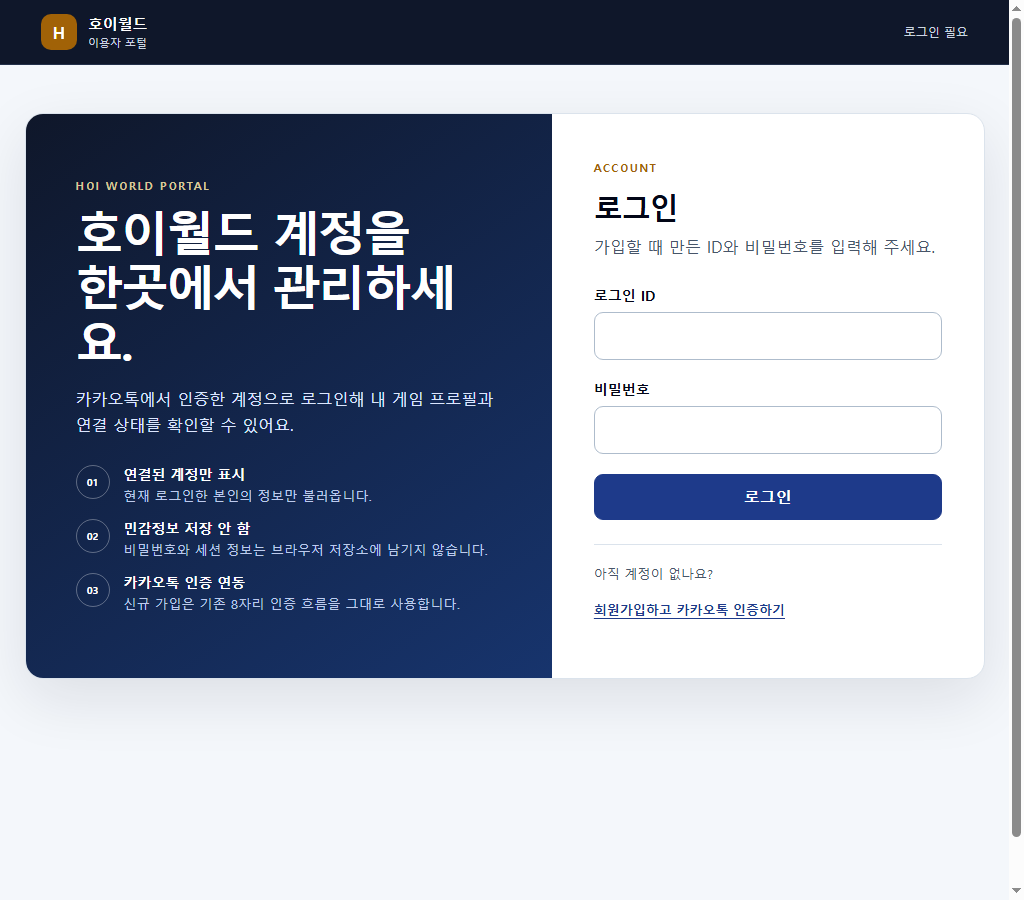
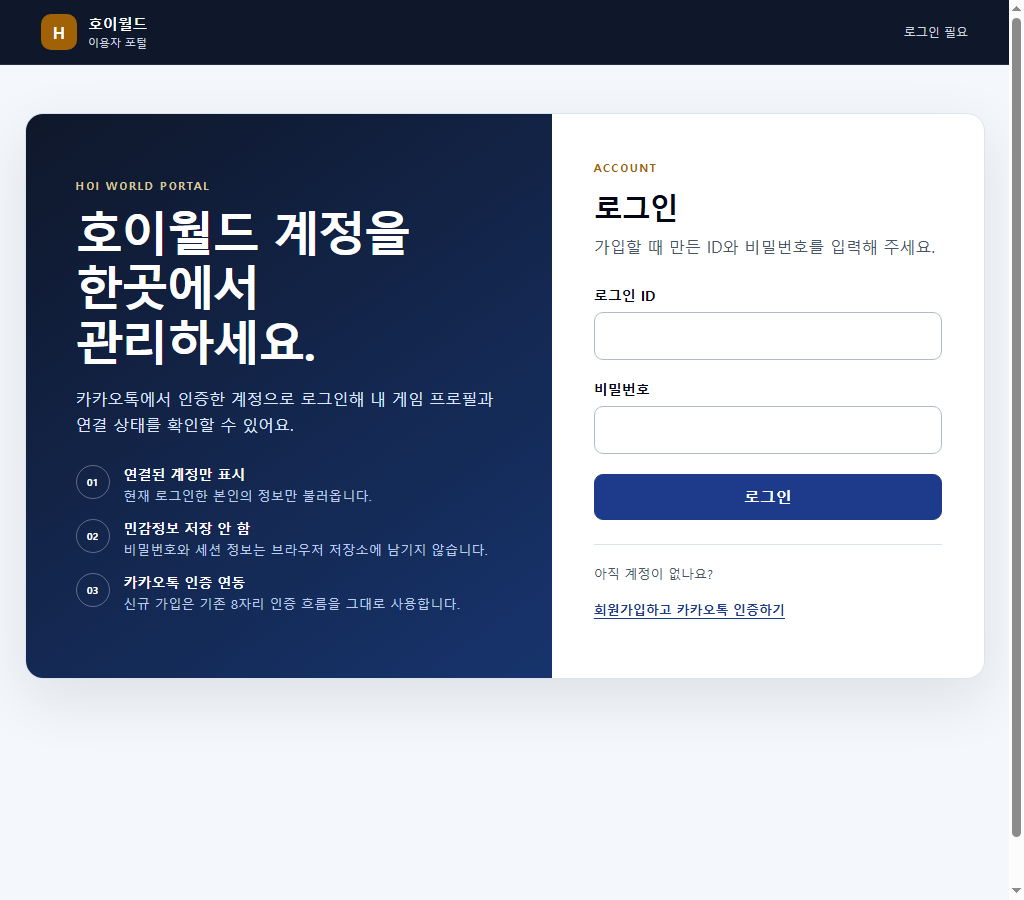
모바일 로그인 제목 줄바꿈을 보정

Changed region(s): [[0.0625, 0.28, 0.4688, 0.4044]]

diff --git a/개발환경_고도화/runtime/src/site-web/user-shell-assets.ts b/개발환경_고도화/runtime/src/site-web/user-shell-assets.ts
@@ -207,7 +207,7 @@ main { min-height: calc(100vh - 112px); }
 .login-intro { padding: 38px 24px 34px; color: #fff; background: linear-gradient(145deg, var(--navy), #17346d); }
 .eyebrow { margin: 0 0 12px; color: #d8c89b; font-size: 11px; font-weight: 800; letter-spacing: .14em; }
 .eyebrow.dark { color: var(--gold); }
-.login-intro h1 { max-width: 520px; margin: 0; font-size: clamp(32px, 7vw, 48px); line-height: 1.13; letter-spacing: -.05em; }
+.login-intro h1 { max-width: 520px; margin: 0; font-size: clamp(32px, 7vw, 48px); line-height: 1.13; letter-spacing: -.05em; word-break: keep-all; text-wrap: balance; }
 .intro-copy { max-width: 510px; margin: 18px 0 26px; color: #dbe6ff; line-height: 1.65; }
 .trust-list { display: grid; gap: 13px; max-width: 600px; margin: 0; padding: 0; list-style: none; }
 .trust-list li { display: grid; grid-template-columns: 36px 1fr; gap: 12px; align-items: start; }

diff --git a/개발환경_고도화/runtime/test/user-shell.test.ts b/개발환경_고도화/runtime/test/user-shell.test.ts
@@ -128,6 +128,7 @@ test("로그인 화면은 키보드·스크린리더·비밀번호 관리자를 
   assert.match(USER_SHELL_STYLES, /grid-template-columns: 224px minmax\(0, 1fr\)/);
   assert.match(USER_SHELL_STYLES, /\.summary-grid \{ grid-template-columns: repeat\(3, minmax\(0, 1fr\)\); \}/);
   assert.match(USER_SHELL_STYLES, /@media \(max-width: 619px\)/);
+  assert.match(USER_SHELL_STYLES, /\.login-intro h1 \{[^}]*word-break: keep-all;[^}]*text-wrap: balance;/);
   assert.doesNotMatch(USER_SHELL_STYLES, /grid-template-rows: auto 1fr auto/);
   assert.match(USER_SHELL_HTML, /보안 상태/);
   assert.match(USER_SHELL_HTML, /aria-labelledby="guide-title"/);
